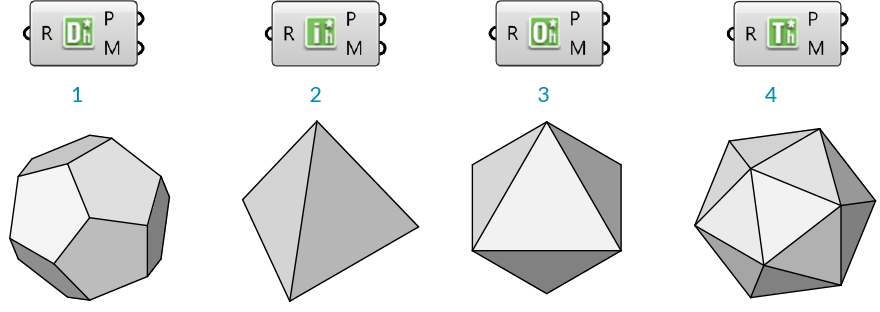
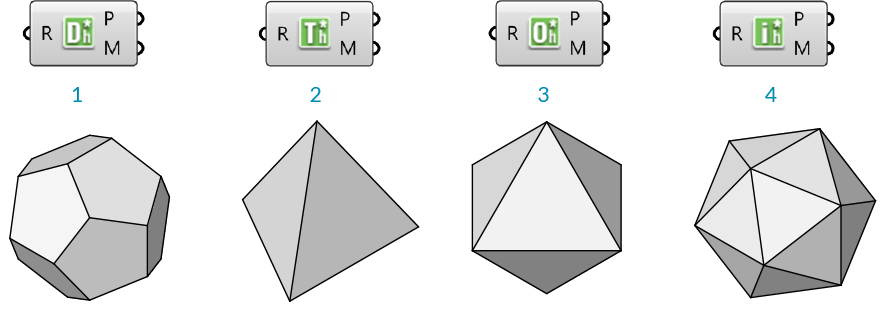
Exercise for 1-6-4, and bug fix for example file links

Changed region(s): [[0.7977, 0.0, 0.9818, 0.2308], [0.2761, 0.0, 0.4602, 0.2308]]

diff --git a/en/1-foundations/1-6/4_Element.md b/en/1-foundations/1-6/4_Element.md
@@ -55,20 +55,24 @@ This component is used to help visualize the half-edge data of the faces of an i
 
 This component provides access to the adjacency data structured according to the edges of the input mesh. The output data is provided as a tree with one branch for each edge in the mesh. It provides the end points, center ponts of adjacent faces, neighboring edges as line objects, and the center points of the neighboring faces.
 
+![IMAGE](images/1-6-4/04A_edge-neighbors.png)
+> **Edge Neighbors** - End vertices, adjacent faces, neighboring edges, and neighboring faces
+
 **Element\* Face Neighbors**
 
 This component is similar to the others in this section, but the data is organized in a tree according to the faces of the mesh, with one branch per face. The outputs are the vertices of each face, the adjacent edges, and the centers of neighboring faces.
 
 Note - This component only allows triangulated meshes.
 
+![IMAGE](images/1-6-4/04B_face-neighbors.png)
+> **Face Neighbors** - Adjacent vertices, adjacent edges, and neighboring faces
+
 **Element\* Vertex Neighbors**
 
 This component outputs neighboring vertices, edges, and face centers structured in a tree according to the vertices of the mesh.
 
-![IMAGE](images/1-6-4/04_neighbors-diagram.png)
->1. **Edge Neighbors** - End vertices, adjacent faces, neighboring edges, and neighboring faces
-2. **Face Neighbors** - Adjacent vertices, adjacent edges, and neighboring faces
-3. **Vertex Neighbors** - Adjacent Edges, adjactent faces, and neighboring vertices
+![IMAGE](images/1-6-4/04C_vertex-neighbors.png)
+> **Vertex Neighbors** - Adjacent Edges, adjactent faces, and neighboring vertices
 
 ####1.6.4.4 Primitives
 
@@ -76,10 +80,9 @@ Element\* provides four additional mesh primitives: the Icosohedron, Dodecahedro
 
 ![IMAGE](images/1-6-4/05_primitives.png)
 >1. Dodecahedron
-2. Icosohedron
+2. Tetrahedron
 3. Octahedron
 4. Tetrahedron
-5. EDIT - THE COMPONENTS ARE OUT OF ORDER IN THE IMAGE
 
 ####1.6.4.5 Smooth
 
@@ -114,11 +117,11 @@ These components provide a number of different transformations described below. 
 
 **Element\* Mesh Window**
 
-Reconstructs a new mesh on the inside of a face based on an offset value.
+Reconstructs a new mesh on the inside of a face based on an offset value. This component accepts either a mesh or a list of closed polylines as input.
 
 **Element\* Mesh Frame**
 
-Outputs a frame around mesh faces. Each resultant face will have a new hole in the center.
+Outputs a frame around mesh faces. Each resultant face will have a new hole in the center. This component accepts either a mesh or a list of closed polylines as input.
 
 **Element\* Mesh Thicken**
 
@@ -137,5 +140,102 @@ This component creats an offset of the input mesh based on the vertex normals.
 
 The **Element\* Mesh Combine and Clean** component will combine multiple meshes together and weld the vertices and vertex normals according to an input threshold angle.
 
+
 ####1.6.4.9 Exercise
+
+{% if gitbook.generator == "pdf" or gitbook.generator == "mobi" or gitbook.generator == "epub" %}
+>Example files that accompany this section: [http://grasshopperprimer.com/appendix/A-2/1_gh-files.html](http://grasshopperprimer.com/appendix/A-2/1_gh-files.html)
+{% else %}
+>Example files that accompany this section: [Download](../../appendix/A-2/gh-files/1.6.4_element addon.gh)
+{% endif %}
+
+<style>
+td:nth-child(1) {color: #008DB2}
+td:nth-child(3)	{width: 10%;}
+td {background-color: #F9F9F9;}
+thead {display: none}
+</style>
+
+
+||||
+|--|--|--|
+|01.| Start a new definition, type Ctrl-N (in Grasshopper)||
+|02.| **Element\*/Primitive/Icosohedron** - Drag and drop the **Icosohedron** component onto the canvas|![IMAGE](images/1-6-4/icosohedron.png)|
+|03.| **Params/Input/Number Slider** - Drag and drop the **Number Slider** component onto the canvas||
+|04.| Connect the **Number Slider** to the Radius (R) input of the **Icosohedron** component||
+|05.| Double-click the **Number Slider** and set appropriate values. For this example, we used: <ul>Name: Radius<br>Rounding: Integer<br>Lower Limit: 5<br>Upper Limit: 50<br>Value: 25</ul> ||
+|06.| **Element\*/Data/Face Neighbors** - Drag and drop the **Face Neighbors** component onto the canvas| ![IMAGE](images/1-6-4/face-neighbors.png)|
+|07.| Connect the Mesh (M) output of the **Icosohedron** component to the Mesh (M) input of the **Face Neighbors** component.|||
+
+![IMAGE](images/1-6-4/exercise_01.png)
+>Looking at the data of the Neighboring Face Edges (NE) output, we see that we have a tree with 20 branches, where each branch contains three lines. The 20 branches each represent a face of the icosohedron which has 20 sides, while the three lines are the edges of each triangular face.
+
+
+||||
+|--|--|--|
+|08.| **Params/Input/Number Slider** - Drag and drop a **Number Slider** component onto the canvas and set the following values: <ul>Rounding: Float<br>Lower Limit:0<br>Upper Limit: 0.5</ul>||
+|09.| **Params/Input/Panel** - Drag and drop a **Panel** component onto the canvas||
+|10.| Double-click the **Panel** component and enter "1" into the text-field||
+|11.| **Math/Operators/Subtraction** - Drag and drop a **Subtraction** component onto the canvas|![IMAGE](images/1-6-4/subtraction.png)|
+|12.| Connect the **Panel** with a value of "1" into the A input and connect the number slider to the B input of the **Subtraction** component||
+|13.| **Sets/Tree/Merge** - Drag and drop a **Merge** component onto the canvas|![IMAGE](images/1-6-4/merge.png)|
+|14.| Connect the **Number Slider** to the D1 input of **Merge**, and connect the output R of the **Subtraction** component to the D2 input of **Merge**||
+|15.| **Curve/Analysis/Evaluate Curve** - Drag and drop an **Evaluate Curve** component onto the canvas|![IMAGE](images/1-6-4/evaluate-curve.png)
+|16.| Connect the Face Edges (NE) output of the **Face Neighbors** component to the Curve (C) input of the the **Evaluate Curve** component||
+|17.| Right click the Curve (C) input of the **Evaluate Curve** component and select Graft. This will create a new branch for each edge.||
+|18.| Connect the Result (R) output of the **Merge** component to the Parameter (t) input of the **Evaluate Curve** component. Because we grafted the Curve input, each edge is evaluated at both parameters from **Merge**|||
+
+![IMAGE](images/1-6-4/exercise_02.png)
+
+
+||||
+|--|--|--|
+|19.| **Sets/Tree/Trim Tree** - Drag and drop a **Trim Tree** component onto the canvas|![IMAGE](images/1-6-4/trim-tree.png)|
+|20.| Connect the Points (P) output of **Evaluate Curve** to the Tree (T) input of the **Trim Tree** component. <br><blockquote>The default value of Depth (D) input for **Trim Tree** is 1. This reduce the depth of our data tree one level by merging the outer most branch. The result is 20 branches, each with six points. </blockquote>||
+|21.| **Curve/Spline/Polyline** - Drag and drop a **Polyline** component onto the canvas|![IMAGE](images/1-6-4/polyline.png)|
+|22.| Connect the Tree (T) output of the **Trim Tree** component to the Vertices (V) input of the **Polyline** component ||
+|23.| Right click the Closed (C) input of the **Polyline** component, click "Set Boolean" and set the value to True <br><blockquote>This has created a closed polyline of six sides for each original face of the mesh.</blockquote>||
+|24.| **Element\*/Transform/Mesh Frame** - Drag and drop a **Mesh Frame** component onto the canvas.|![IMAGE](images/1-6-4/mesh-frame.png)
+|25.| Connect the Polyline (Pl) output of the **Polyline** component to the Geometry (G) input of the **Mesh Frame** component <br><blockquote>Note that the **Mesh Frame** component can take either meshes or a list of closed polyline curves as input</blockquote>||
+|26.| **Params/Input/Number Slider** - Drage and drop a **Number Silder** component onto the canvas. We will keep the default range of 0 to 1 for this slider||
+|27.| Connect the **Number Slider** to the Factor (F) input of the **Mesh Frame** component|||
+
+![IMAGE](images/1-6-4/exercise_03.png)
+![IMAGE](images/1-6-4/exercise_04.png)
+
+||||
+|--|--|--|
+|28.| **Element\*/Utility/Mesh Combine and Clean** - Drag and drop a **Mesh Combine and Clean** component on the canvas|![IMAGE](images/1-6-4/combine-and-clean.png)|
+|29.| Connect the Mesh (M) output of **Mesh Frames** to the Mesh (M) input of the **Mesh Combine and Clean** component||
+|30.| Right click the Mesh (M) input of **Mesh Combine and Clean** and select Flatten <br><blockquote>By flattening the tree of meshes, **Combine and Clean** will merge all 20 face meshes into a single mesh</blockquote>||
+|31.| **Element\*/Transform/Mesh Thicken** - Drag and drop a **Mesh Thicken** component onto the canvas|![IMAGE](images/1-6-4/mesh-thicken.png)|
+|32.| Connect the Mesh (M) output of **Combine and Clean** to the Mesh (M) input of **Mesh Thicken**||
+|33.| **Element\*/Subdivide/Catmull Clark Subdivision** - Drag and drop a **Catmull Clark Subdivision** component onto the canvas|![IMAGE](images/1-6-4/catmull-clark.png)
+|34.| Connect the Mesh (M) output of **Mesh Thicken** to the Mesh (M) input of the **Catmull Clark Subdivision** component|||
+
+![IMAGE](images/1-6-4/exercise_05.png)
+![IMAGE](images/1-6-4/exercise_06.png)
+>We have truncated the triangular faces of the initial mesh, effectively also creating rings around each original vertex. We have also created a frame for each face, then thickened the mesh and refined it with subdivision. Next we will take advantage of the Per Vertex capabilities of the transform components by using an attractor point.
+
+||||
+|--|--|--|
+|35.| **Params/Geometry/Point** - Drag and drop a **Point** parameter onto the canvas|![IMAGE](images/1-6-4/point.png)|
+|36.| Right click the **Point** parameter and select "Set on point" to select a point in the Rhino viewport <br><blockquote>Tip - you can also create a point directly in Grasshopper by double-clicking the canvas to bring up the Search window, then typing a point coordinate such as "10,10,0" (without the quotes) </blockquote>||
+|37.| **Mesh/Analysis/Deconstruct Mesh** - Drag and drop a **Deconstruct Mesh** component onto the canvas|![IMAGE](images/1-6-4/deconstruct-mesh.png)|
+|38.| Connect the Mesh (M) output of the **Combine and Clean** component to the Mesh (M) input of the **Deconstruct Mesh** component. <br><blockquote>We will use this to extract the vertices of our combined mesh, and then apply an attractor point to these vertices</blockquote>||
+|39.| **Vector/Point/Distance** - Drag and drop a **Distance** component onto the canvas|![IMAGE](images/1-6-4/distance.png)|
+|40.| Connect the Vertices (V) output of the **Deconstruct Mesh** component to the A input of the the **Distance** component||
+|41.| Connect the **Point** parameter to the B input of the **Distance** component||
+|42.| Connect the Distance (D) output of the **Distance** component to the PerVectex Data (VD) input of the **Thicken** component||
+|43.| **Params/Input/Number Slider** - Drag and drop two **Number Slider** components onto the canvas. We will use these to set the lower and upper limits for the **Mesh Thicken** component||
+|44.| Double-click the **Number Sliders** and set the values. In this example, we left the first slider at default values, and set the Upper Limit of the second slider to 5.0||
+|45.| **Maths/Domain/Construct Domain** - Drag and drop a **Construct Domain** component onto the canvas|![IMAGE](images/1-6-4/construct-domain.png)
+|46.| Connect the two number sliders to the A and B inputs of the **Construct Domain** component||
+|47.| Connect the Domain (I) output of the **Construct Domain** component to the Min and Max Values (D) input of the **Mesh Thicken** component.||
+|43.| Right click the Type (T) input of the **Thicken** component, select "Set Integer" and enter a value of 1 <br><blockquote>You can also enable the PerVertex Data by using a **Boolean Toggle** component set to True.</blockquote>|||
+
+![IMAGE](images/1-6-4/exercise_07.png)
+![IMAGE](images/1-6-4/exercise_08.png)
+--
+![IMAGE](images/1-6-4/exercise_full.png)
 

diff --git a/en/1-foundations/1-5/3_creating-data-trees.md b/en/1-foundations/1-5/3_creating-data-trees.md
@@ -1,5 +1,5 @@
 ### 1.5.3. Creating Data Trees
-{% if gitbook.generator == "pdf" or "mobi" or "epub" %}
+{% if gitbook.generator == "pdf" or gitbook.generator == "mobi" or gitbook.generator == "epub" %}
 >Example files that accompany this section: [http://grasshopperprimer.com/appendix/A-2/1_gh-files.html](http://grasshopperprimer.com/appendix/A-2/1_gh-files.html)
 {% else %}
 >Example files that accompany this section: [Download](../../appendix/A-2/gh-files/1.5.3_creating data trees.gh)
@@ -53,7 +53,7 @@ The Path Mapper component (Sets/Tree/Path Mapper) allows you to perform lexical 
 4. You can modify a data tree by re-mapping the path index and the desired branch
 
 ####1.5.3.6. WEAVING DEFINITION
-{% if gitbook.generator == "pdf" or "mobi" or "epub" %}
+{% if gitbook.generator == "pdf" or gitbook.generator == "mobi" or gitbook.generator == "epub" %}
 >Example files that accompany this section: [http://grasshopperprimer.com/appendix/A-2/1_gh-files.html](http://grasshopperprimer.com/appendix/A-2/1_gh-files.html)
 {% else %}
 >Example files that accompany this section: [Download](../../appendix/A-2/gh-files/1.5.3.6_weaving definition.gh)
@@ -71,7 +71,7 @@ In this example, we will manipulate lists and data trees to weave lists of point
 ![IMAGE](images/1-5-3/1-5-3_009-weaving-example-b.png)
 >1. Array curves
 2. Dispatch curves into lists A and B, divide curves
-3. Cull poits, weave, and revolve
+3. Cull points, weave, and revolve
 
 
 <style>

diff --git a/en/1-foundations/1-3/3_mathematics-expressions-conditionals.md b/en/1-foundations/1-3/3_mathematics-expressions-conditionals.md
@@ -1,7 +1,7 @@
 
 
 ### 1.3.3. Mathematics, Expressions & Conditionals
-{% if gitbook.generator == "pdf" or "mobi" or "epub" %}
+{% if gitbook.generator == "pdf" or gitbook.generator == "mobi" or gitbook.generator == "epub" %}
 >Example files that accompany this section: [http://grasshopperprimer.com/appendix/A-2/1_gh-files.html](http://grasshopperprimer.com/appendix/A-2/1_gh-files.html)
 {% else %}
 >Example files that accompany this section: [Download](../../appendix/A-2/gh-files/1.3.3_operators and conditionals.gh)
@@ -100,7 +100,7 @@ equal to (<=) condition.
 ![](images/1-3-3/1-3-3_06-smaller-than.png)
 
 ####1.3.3.4. TRIGONOMETRY COMPONENTS
-{% if gitbook.generator == "pdf" or "mobi" or "epub" %}
+{% if gitbook.generator == "pdf" or gitbook.generator == "mobi" or gitbook.generator == "epub" %}
 >Example files that accompany this section: [http://grasshopperprimer.com/appendix/A-2/1_gh-files.html](http://grasshopperprimer.com/appendix/A-2/1_gh-files.html)
 {% else %}
 >Example files that accompany this section: [Download](../../appendix/A-2/gh-files/1.3.3.4_trigonometry components.gh)

diff --git a/en/1-foundations/1-6/2_What is a Mesh.md b/en/1-foundations/1-6/2_What is a Mesh.md
@@ -130,6 +130,9 @@ On the other hand, if there exist 'Naked Edges', then those edges must be on a b
 Non-manifold geometry is essentially geometry that cannot exist in the "real world". This does not necessarily make it "bad geometry" but it is something to be aware of due to complications it may present for tools and operations (for example: rendering of refractive effects, fluid simulations, boolean operations, 3d printing, etc). Common conditions that result in a non-manifold mesh include: self intersection, naked edges (from holes or internal faces), disjoint topology, and overlapping/duplicate faces. A mesh can also be considered *Non-Manifold* if it includes any vertices which are shared by faces that do not share edges or any edges with a valence greater than 2, creating a junction of at least 3 faces
 
 ![IMAGE](images/1-6-2/15_non-manifold.png)
+>1. A simple manifold mesh
+2. Three faces meeting on a single edge is non-manifold
+3. Two faces meeting at only one vertex but not sharing an edge is non-manifold
 
 ####1.6.2.5 Exercise
 

diff --git a/en/1-foundations/1-4/1_curve-geometry.md b/en/1-foundations/1-4/1_curve-geometry.md
@@ -42,7 +42,7 @@ NURBS curve knots as a result of varying degree:
 >D<sup>3</sup> is the most common type of NURBS curve and is the default in Rhino. You are probably very familiar with the visual progression of the spline, even though the knots appear to be in odd locations.
 
 ####1.4.1.2. GRASSHOPPER SPLINE COMPONENTS
-{% if gitbook.generator == "pdf" or "mobi" or "epub" %}
+{% if gitbook.generator == "pdf" or gitbook.generator == "mobi" or gitbook.generator == "epub" %}
 >Example files that accompany this section: [http://grasshopperprimer.com/appendix/A-2/1_gh-files.html](http://grasshopperprimer.com/appendix/A-2/1_gh-files.html)
 {% else %}
 >Example files that accompany this section: [Download](../../appendix/A-2/gh-files/1.4.1.2_grasshopper spline components.gh)

diff --git a/en/1-foundations/1-5/2_what-is-a-data-tree.md b/en/1-foundations/1-5/2_what-is-a-data-tree.md
@@ -14,7 +14,7 @@ The image below illustrates the difference between a list and a data tree. On th
 ![IMAGE](images/1-5-2/1-5-2_002-list-data-tree.png)
 
 ####1.5.2.1. DATA TREE VISUALIZATION
-{% if gitbook.generator == "pdf" or "mobi" or "epub" %}
+{% if gitbook.generator == "pdf" or gitbook.generator == "mobi" or gitbook.generator == "epub" %}
 >Example files that accompany this section: [http://grasshopperprimer.com/appendix/A-2/1_gh-files.html](http://grasshopperprimer.com/appendix/A-2/1_gh-files.html)
 {% else %}
 >Example files that accompany this section: [Download](../../appendix/A-2/gh-files/1.5.2.1_data tree visualization.gh)

diff --git a/en/1-foundations/1-3/2_working-with-attractors.md b/en/1-foundations/1-3/2_working-with-attractors.md
@@ -23,7 +23,7 @@ the length of each vector to scale the radius of each circle.
 ![Examples](images/1-3-2/1-3-2_002-attractor-examples.png)
 
 ####1.3.2.1. ATTRACTOR DEFINITION
-{% if gitbook.generator == "pdf" or "mobi" or "epub" %}
+{% if gitbook.generator == "pdf" or gitbook.generator == "mobi" or gitbook.generator == "epub" %}
 >Example files that accompany this section: [http://grasshopperprimer.com/appendix/A-2/1_gh-files.html](http://grasshopperprimer.com/appendix/A-2/1_gh-files.html)
 {% else %}
 >Example files that accompany this section: [Download](../../appendix/A-2/gh-files/1.3.2.1_attractor definition.gh)

diff --git a/en/1-foundations/1-5/1_surface-geometry.md b/en/1-foundations/1-5/1_surface-geometry.md
@@ -72,7 +72,7 @@ a box defined by the end points of those vectors and the corner points of the
 patch.
 
 ####1.5.1.3. MORPHING DEFINITION
-{% if gitbook.generator == "pdf" or "mobi" or "epub" %}
+{% if gitbook.generator == "pdf" or gitbook.generator == "mobi" or gitbook.generator == "epub" %}
 >Example files that accompany this section: [http://grasshopperprimer.com/appendix/A-2/1_gh-files.html](http://grasshopperprimer.com/appendix/A-2/1_gh-files.html)
 {% else %}
 >Example files that accompany this section: [Download](../../appendix/A-2/gh-files/1.5.1.3_morphing definition.gh)

diff --git a/en/1-foundations/1-3/4_domains-color.md b/en/1-foundations/1-3/4_domains-color.md
@@ -6,7 +6,7 @@ thead {display: none}
 </style>
 ###1.3.4. Domains & Color
 
-{% if gitbook.generator == "pdf" or "mobi" or "epub" %}
+{% if gitbook.generator == "pdf" or gitbook.generator == "mobi" or gitbook.generator == "epub" %}
 >Example files that accompany this section: [http://grasshopperprimer.com/appendix/A-2/1_gh-files.html](http://grasshopperprimer.com/appendix/A-2/1_gh-files.html)
 {% else %}
 >Example files that accompany this section: [Download](../../appendix/A-2/gh-files/1.3.4_domains and color.gh)

diff --git a/en/1-foundations/1-3/5_booleans-logical-operators.md b/en/1-foundations/1-3/5_booleans-logical-operators.md
@@ -1,5 +1,5 @@
 ###1.3.5. Booleans & Logical Operators
-{% if gitbook.generator == "pdf" or "mobi" or "epub" %}
+{% if gitbook.generator == "pdf" or gitbook.generator == "mobi" or gitbook.generator == "epub" %}
 >Example files that accompany this section: [http://grasshopperprimer.com/appendix/A-2/1_gh-files.html](http://grasshopperprimer.com/appendix/A-2/1_gh-files.html)
 {% else %}
 >Example files that accompany this section: [Download](../../appendix/A-2/gh-files/1.3.5_booleans and logical operators.gh)

diff --git a/en/1-foundations/1-2/5_the-grasshopper-definition.md b/en/1-foundations/1-2/5_the-grasshopper-definition.md
@@ -1,5 +1,5 @@
 ### 1.2.5. THE GRASSHOPPER DEFINITION
-{% if gitbook.generator == "pdf" or "mobi" or "epub" %}
+{% if gitbook.generator == "pdf" or gitbook.generator == "mobi" or gitbook.generator == "epub" %}
 >Example files that accompany this section: [http://grasshopperprimer.com/appendix/A-2/1_gh-files.html](http://grasshopperprimer.com/appendix/A-2/1_gh-files.html)
 {% else %}
 >Example files that accompany this section: [Download](../../appendix/A-2/gh-files/1.2.5_the grasshopper definition.gh)

diff --git a/en/1-foundations/1-4/5_list-visualization.md b/en/1-foundations/1-4/5_list-visualization.md
@@ -1,5 +1,5 @@
 ### 1.4.5. List Visualization
-{% if gitbook.generator == "pdf" or "mobi" or "epub" %}
+{% if gitbook.generator == "pdf" or gitbook.generator == "mobi" or gitbook.generator == "epub" %}
 >Example files that accompany this section: [http://grasshopperprimer.com/appendix/A-2/1_gh-files.html](http://grasshopperprimer.com/appendix/A-2/1_gh-files.html)
 {% else %}
 >Example files that accompany this section: [Download](../../appendix/A-2/gh-files/1.4.5_list visualization.gh)
